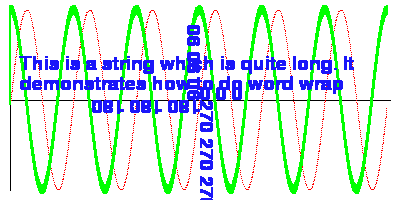
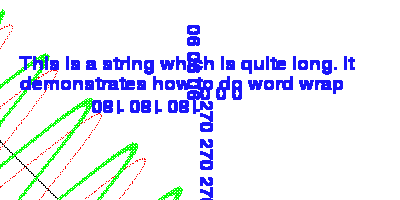
Mikal: Implemented CTM for graphics drawing (not text)

diff --git a/libmplot/libplot.c b/libmplot/libplot.c
@@ -1,5 +1,5 @@
 /******************************************************************************
-  Copyright (C) Michael Still 2002
+  Copyright (C) Michael Still 2002, 2003
   
   This program is free software; you can redistribute it and/or modify
   it under the terms of the GNU General Public License as published by
@@ -58,6 +58,7 @@ plot_state *
 plot_newplot (unsigned int x, unsigned int y)
 {
   plot_state *state;
+  int i;
 
   state = malloc (sizeof (plot_state));
   if (state == NULL)
@@ -109,10 +110,17 @@ plot_newplot (unsigned int x, unsigned int y)
   state->fontpath = NULL;
   state->fontsize = 0;
 
+  // Current location
   state->textx = 0;
   state->texty = 0;
   state->penx = 0;
   state->peny = 0;
+
+  // Current transformation matrix -- the identity
+  for(i = 0; i < 6; i++)
+    state->ctm[i] = 0.0;
+  state->ctm[0] = 1.0;
+  state->ctm[3] = 1.0;
   return state;
 }
 
@@ -632,26 +640,43 @@ plot_drawpoint (plot_state * state, plot_pixel color, int isLine,
     }
 }
 
-// Turn on a single pixel
+// Turn on a single pixel, including applying the CTM as required
+// Not used for text...
 void
-plot_drawpointactual (plot_state * state, plot_pixel color, int isLine, unsigned int x, unsigned int y)
+plot_drawpointactual (plot_state * state, plot_pixel color, int isLine, 
+		      unsigned int origx, unsigned int origy)
 {
-  unsigned long ptr = state->x * y + x;
+  unsigned int x, y;
+  unsigned long ptr;
   int linedashcount;
 
+  // Apply the CTM
+  x = (unsigned int) (((float) origx * state->ctm[0]) + 
+		      ((float) state->ctm[2] * origy) + 
+		      state->ctm[4]);
+  y = (unsigned int) (((float) origx * state->ctm[1]) + 
+		      ((float) state->ctm[3] * origy) + 
+		      state->ctm[5]);
+  ptr = state->x * y + x;
+
+  // Make sure we are within bounds
   if ((x >= state->x) || (y >= state->y))
     return;
   
+  // Deal with dashing
   state->linedashcount++;
   if(state->linedashcount > (state->linedashlen - 1)){
     state->linedashcount = 0;
   }
   linedashcount = state->linedashcount;
 
-  if((state->linedashlen > 0) && (isLine == LIBMPLOT_TRUE) && (state->linedash[linedashcount] == '\0')){
+  if((state->linedashlen > 0) && 
+     (isLine == LIBMPLOT_TRUE) && 
+     (state->linedash[linedashcount] == '\0')){
     return;
   }
   
+  // Paint the pixel
   state->raster[ptr] = color;
 }
 
@@ -1454,7 +1479,17 @@ plot_stringheight (plot_state * state, char *string)
   return height;
 }
 
-
+// TODO mikal: document
+void plot_setctm (plot_state * state, float a, float b, float c,
+		  float d, float e, float f)
+{
+  state->ctm[0] = a;
+  state->ctm[1] = b;
+  state->ctm[2] = c;
+  state->ctm[3] = d;
+  state->ctm[4] = e;
+  state->ctm[5] = f;
+}
 
 
 

diff --git a/libmplot/exgraph.c b/libmplot/exgraph.c
@@ -18,10 +18,15 @@
 
 #include <stdio.h>
 #include <png.h>
+#include <math.h>
 #include <libmplot.h>
 
 char *words[] = {"This", "is", "a", "string", "which", "is", "quite", "long.",
-		 "It", "demonstrates", "how", "to", "do", "word", "wrap", NULL};
+		 "It", "demonstrates", "how", "to", "do", "word", "wrap", 
+		 NULL};
+
+#define CHECKEXIT if(stopPoint == stopCount) goto done; stopCount++;
+#define PI 3.1415
 
 int
 main (int argc, char *argv[])
@@ -34,27 +39,45 @@ main (int argc, char *argv[])
   png_bytepp row_pointers = NULL;
   plot_state *graph;
   char *raster;
-  float angle;
-  int x, count;
+  float angle, ctmAngle = 0.0;
+  int x, count, stopPoint = -1, stopCount = 0;
 
   if((graph = plot_newplot(400, 200)) == NULL){
     fprintf(stderr, "Could not allocate a new plot\n");
     exit(1);
   }
 
+  // TODO mikal: this should use getopt one day...
+  if(argc > 0){
+    stopPoint = atoi(argv[1]);
+  }
+  if(argc > 1){
+    ctmAngle = atof(argv[2]);
+  }
+
+  plot_setctm(graph, 
+	      cos (ctmAngle * PI / 180.0),
+	      sin (ctmAngle * PI / 180.0),
+	      -sin (ctmAngle * PI / 180.0),
+	      cos (ctmAngle * PI / 180.0),
+	      0, 0);
+	      
   // Draw some axes
+  CHECKEXIT // 0
   plot_setlinecolor(graph, 0, 0, 0);
   plot_setlinestart(graph, 10, 10);
   plot_addlinesegment(graph, 10, 190);
   plot_strokeline(graph);
   plot_endline(graph);
 
+  CHECKEXIT // 1
   plot_setlinestart(graph, 10, 100);
   plot_addlinesegment(graph, 390, 100);
   plot_strokeline(graph);
   plot_endline(graph);
 
   // Draw the sin graph
+  CHECKEXIT // 2
   plot_setlinecolor(graph, 255, 0, 0);
   plot_setlinedash(graph, 2, "\0\1");
   plot_setlinestart(graph, 10, 100);
@@ -67,6 +90,7 @@ main (int argc, char *argv[])
   plot_endline(graph);
 
   // Draw the cos graph
+  CHECKEXIT // 3
   plot_setlinecolor(graph, 0, 255, 0);
   plot_setlinedash(graph, 0, "");
   plot_setlinewidth(graph, 2, 10);
@@ -80,6 +104,7 @@ main (int argc, char *argv[])
   plot_endline(graph);
 
   // Write out some text
+  CHECKEXIT // 4
   plot_setfontcolor(graph, 26, 22, 249);
   plot_setfont(graph, "n019004l.pfb", 18);
   plot_settextlocation(graph, 20, 70);
@@ -98,6 +123,7 @@ main (int argc, char *argv[])
     count++;
   }
 
+  CHECKEXIT // 5
   plot_settextlocation(graph, 200, 100);
   plot_writestringrot(graph, "0 0 0", 0);
   plot_settextlocation(graph, 200, 100);
@@ -108,6 +134,7 @@ main (int argc, char *argv[])
   plot_writestringrot(graph, "270 270 270", 270);
 
   // Write out the PNG file
+ done:
   raster = plot_getraster(graph);
 
   if((image = fopen("graph.png", "wb")) == NULL){

diff --git a/libmplot/libmplot.h b/libmplot/libmplot.h
@@ -20,6 +20,10 @@
 #define LIBMPLOT_HORIZONTAL 1
 #define LIBMPLOT_NOTAPPLICABLE 2
 
+// These are used for automated conversion of this header to other languages
+#define SUPPRESS(x)
+#define INTERNAL
+
 #ifdef __cplusplus
 extern "C"
 {
@@ -66,6 +70,8 @@ typedef struct plot_internal_state
 
   unsigned int penx;
   unsigned int peny;
+
+  float ctm[6];
 
 #if defined HAVE_LIBFREETYPE
   FT_Library *ft;
@@ -125,17 +131,26 @@ void plot_overlayraster(plot_state * state, char *raster,
 			unsigned int rx, unsigned int ry,
 			int debug);
 
+// Current Transformation Matrix
+// [a b 0]
+// [c d 0]
+// [e f 1]
+void plot_setctm (plot_state * state, float a, float b, float c,
+		  float d, float e, float f);
+
 // Persistance of state methods
 char *plot_persiststate(plot_state * state);
 void plot_applystate(plot_state * state, char *pstr);
 
 // Internal methods
-int plot_min (int one, int two);
-int plot_max (int one, int two);
-int plot_loadglyph(plot_state *, char);
-int plot_paintglyph(plot_state *, char, int, int);
-void plot_drawpoint(plot_state *, plot_pixel, int isLine, unsigned int, unsigned int);
-void plot_drawpointactual(plot_state *, plot_pixel, int isLine, unsigned int, unsigned int);
+INTERNAL int plot_min (int one, int two);
+INTERNAL int plot_max (int one, int two);
+INTERNAL int plot_loadglyph(plot_state *, char);
+INTERNAL int plot_paintglyph(plot_state *, char, int, int);
+INTERNAL void plot_drawpoint(plot_state *, plot_pixel, 
+			     int isLine, unsigned int, unsigned int);
+INTERNAL void plot_drawpointactual(plot_state *, plot_pixel, 
+				   int isLine, unsigned int, unsigned int);
 
 #ifdef __cplusplus
 }
